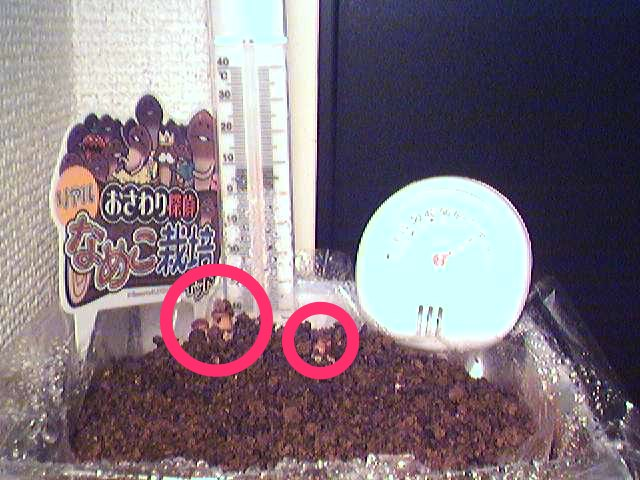
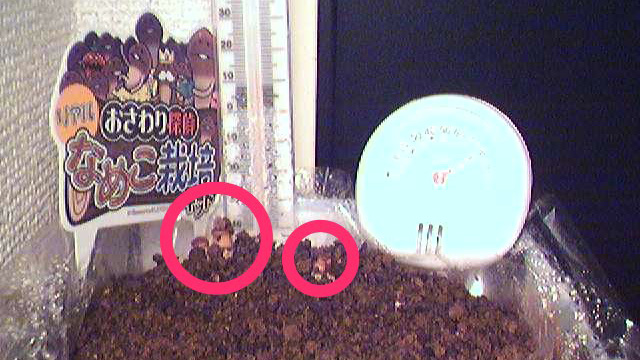
fix(homehack): remove private fungus camera video in both languages

diff --git a/pages/ja/homehack/fungus-camera/index.tsx b/pages/ja/homehack/fungus-camera/index.tsx
@@ -6,7 +6,11 @@ import {
 import { SiteLink } from "@/site/components/SiteLink";
 
 import { classNames, href } from "@/site/rendering";
-import { hydratePageData, type PageDataProps, type SiteData } from "@/site/page-data";
+import {
+  hydratePageData,
+  type PageDataProps,
+  type SiteData,
+} from "@/site/page-data";
 import { getPageData } from "@/site/page-data.server";
 import { withPageImages } from "@/site/page-images.server";
 import { SiteLayout } from "@/site/components/SiteLayout";
@@ -114,7 +118,7 @@ export default function Page({ pageData }: PageDataProps) {
             </div>
           </SiteLink>
         </div>
-        <div className="ui stackable four columns grid">
+        <div className="ui stackable three columns grid">
           <div className="column">
             <SiteLink
               className="ui fluid image"
@@ -140,15 +144,9 @@ export default function Page({ pageData }: PageDataProps) {
               className="ui fluid image"
               href={href(`${rootPath}homehack/fungus-camera.jpg`)}
             >
-              <SiteImage src={`${rootPath}homehack/thumbnails/fungus-camera.jpg`} />
-            </SiteLink>
-          </div>
-          <div className="column">
-            <SiteLink
-              className="ui fluid image"
-              href={href(`${rootPath}homehack/fungus-box.jpg`)}
-            >
-              <SiteImage src={`${rootPath}homehack/thumbnails/fungus-box.jpg`} />
+              <SiteImage
+                src={`${rootPath}homehack/thumbnails/fungus-camera.jpg`}
+              />
             </SiteLink>
           </div>
         </div>
@@ -198,15 +196,22 @@ export default function Page({ pageData }: PageDataProps) {
           <div className="column">
             <SiteLink
               className="ui fluid image"
-              href={href(`${rootPath}homehack/fungus-camera-image.jpg`)}
+              href={href(`${rootPath}homehack/fungus-box.jpg`)}
             >
-              <SiteImage src={`${rootPath}homehack/fungus-camera-image.jpg`} />
+              <SiteImage
+                src={`${rootPath}homehack/thumbnails/fungus-box.jpg`}
+              />
             </SiteLink>
           </div>
         </div>
         <div className="ui stackable two columns grid">
           <div className="column">
-            <EmbedYoutube src={"//www.youtube.com/embed/6etDXqnFnSM"} />
+            <SiteLink
+              className="ui fluid image"
+              href={href(`${rootPath}homehack/fungus-camera-image.jpg`)}
+            >
+              <SiteImage src={`${rootPath}homehack/fungus-camera-image.jpg`} />
+            </SiteLink>
           </div>
           <div className="column">
             <EmbedYoutube src={"//www.youtube.com/embed/rFeTAwY_d_Y"} />
@@ -218,5 +223,16 @@ export default function Page({ pageData }: PageDataProps) {
 }
 
 export function getStaticProps() {
-  return { props: withPageImages(Page, { pageData: getPageData("/ja/homehack/fungus-camera/", {"projects": ["homehack"], "publicationProjects": ["homehack"]}) }, "/ja/homehack/fungus-camera/") };
+  return {
+    props: withPageImages(
+      Page,
+      {
+        pageData: getPageData("/ja/homehack/fungus-camera/", {
+          projects: ["homehack"],
+          publicationProjects: ["homehack"],
+        }),
+      },
+      "/ja/homehack/fungus-camera/",
+    ),
+  };
 }

diff --git a/pages/homehack/fungus-camera/index.tsx b/pages/homehack/fungus-camera/index.tsx
@@ -6,7 +6,11 @@ import {
 import { SiteLink } from "@/site/components/SiteLink";
 
 import { classNames, href } from "@/site/rendering";
-import { hydratePageData, type PageDataProps, type SiteData } from "@/site/page-data";
+import {
+  hydratePageData,
+  type PageDataProps,
+  type SiteData,
+} from "@/site/page-data";
 import { getPageData } from "@/site/page-data.server";
 import { withPageImages } from "@/site/page-images.server";
 import { SiteLayout } from "@/site/components/SiteLayout";
@@ -114,7 +118,7 @@ export default function Page({ pageData }: PageDataProps) {
             </div>
           </SiteLink>
         </div>
-        <div className="ui stackable four columns grid">
+        <div className="ui stackable three columns grid">
           <div className="column">
             <SiteLink
               className="ui fluid image"
@@ -140,15 +144,9 @@ export default function Page({ pageData }: PageDataProps) {
               className="ui fluid image"
               href={href(`${rootPath}homehack/fungus-camera.jpg`)}
             >
-              <SiteImage src={`${rootPath}homehack/thumbnails/fungus-camera.jpg`} />
-            </SiteLink>
-          </div>
-          <div className="column">
-            <SiteLink
-              className="ui fluid image"
-              href={href(`${rootPath}homehack/fungus-box.jpg`)}
-            >
-              <SiteImage src={`${rootPath}homehack/thumbnails/fungus-box.jpg`} />
+              <SiteImage
+                src={`${rootPath}homehack/thumbnails/fungus-camera.jpg`}
+              />
             </SiteLink>
           </div>
         </div>
@@ -198,15 +196,22 @@ export default function Page({ pageData }: PageDataProps) {
           <div className="column">
             <SiteLink
               className="ui fluid image"
-              href={href(`${rootPath}homehack/fungus-camera-image.jpg`)}
+              href={href(`${rootPath}homehack/fungus-box.jpg`)}
             >
-              <SiteImage src={`${rootPath}homehack/fungus-camera-image.jpg`} />
+              <SiteImage
+                src={`${rootPath}homehack/thumbnails/fungus-box.jpg`}
+              />
             </SiteLink>
           </div>
         </div>
         <div className="ui stackable two columns grid">
           <div className="column">
-            <EmbedYoutube src={"//www.youtube.com/embed/6etDXqnFnSM"} />
+            <SiteLink
+              className="ui fluid image"
+              href={href(`${rootPath}homehack/fungus-camera-image.jpg`)}
+            >
+              <SiteImage src={`${rootPath}homehack/fungus-camera-image.jpg`} />
+            </SiteLink>
           </div>
           <div className="column">
             <EmbedYoutube src={"//www.youtube.com/embed/rFeTAwY_d_Y"} />
@@ -218,5 +223,16 @@ export default function Page({ pageData }: PageDataProps) {
 }
 
 export function getStaticProps() {
-  return { props: withPageImages(Page, { pageData: getPageData("/homehack/fungus-camera/", {"projects": ["homehack"], "publicationProjects": ["homehack"]}) }, "/homehack/fungus-camera/") };
+  return {
+    props: withPageImages(
+      Page,
+      {
+        pageData: getPageData("/homehack/fungus-camera/", {
+          projects: ["homehack"],
+          publicationProjects: ["homehack"],
+        }),
+      },
+      "/homehack/fungus-camera/",
+    ),
+  };
 }

diff --git a/docs/EXTERNAL_CONTENT_AUDIT.md b/docs/EXTERNAL_CONTENT_AUDIT.md
@@ -16,12 +16,12 @@
 
 ## 優先する具体的なTODO
 
-### W1. Fungus Cameraの非公開YouTube動画
+### W1. Fungus Cameraの非公開YouTube動画（対応済み）
 
 - **場所:** `/homehack/fungus-camera/`、`/ja/homehack/fungus-camera/`。編集元は [英語](../pages/homehack/fungus-camera/index.tsx)・[日本語](../pages/ja/homehack/fungus-camera/index.tsx)。
 - **対象:** [6etDXqnFnSM](https://www.youtube.com/watch?v=6etDXqnFnSM)。プレイヤーに「この動画は非公開です」と表示され、再生できません。
-- **TODO:** 動画所有者のYouTube Studioで一般閲覧できる公開設定にするか、公開できる代替動画のIDを決めて両ページの埋め込みを置換する。公開しない場合は当該埋め込みを削除する。
-- **完了条件:** ログアウトした閲覧者が両ページの埋め込みから再生できる。同じページの `rFeTAwY_d_Y` は今回再生できました。
+- **対応:** 2026-10-20、公開しない動画の埋め込みを両言語から削除。写真の配置を整理し、成長記録画像を更新しました。同じページの `rFeTAwY_d_Y` は残しています（2026-10-14の検査で再生確認済み）。
+- **完了条件:** 両ページに当該非公開動画の埋め込みがなく、写真と残した動画への案内が表示される。残した動画の公開設定変更や新しい動画の再生確認は今回の対応に含みません。
 
 ### W2. people-are-programmers第3章の再生不能プレイリスト
 
